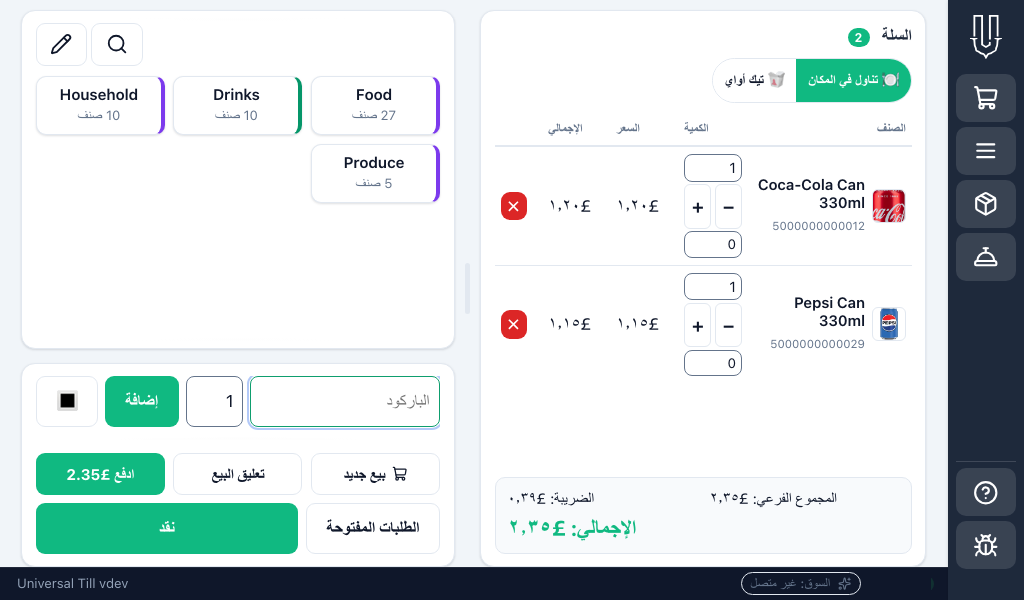
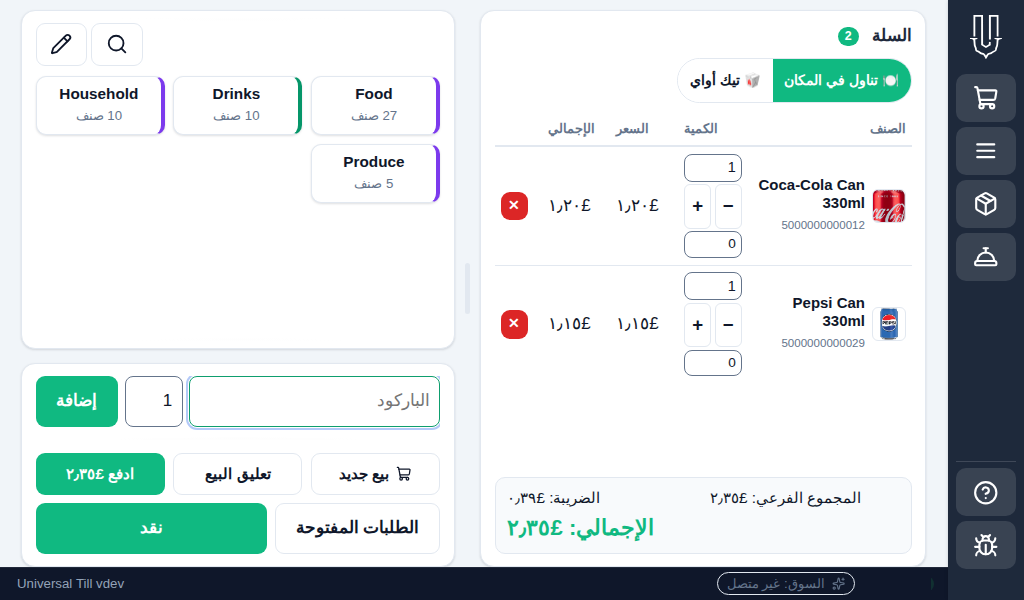
Docs: regenerate fa/ar sell screenshots for the Pay-button digit fix (ut-docs#2649)
The manual's fa and ar sell.png showed the bug itself: htmx load swaps
inside #basket fire the Pay-button refresh, which wrote Latin digits.
Regenerated with `make docs-shots`. Only the two affected screenshots and
the manifest are committed; the other regenerated PNGs differ only by
container font/camera-detection rendering.

Claude-Session: https://claude.ai/code/session_01K1P1UVtWR8KbQwi6NyrT9N

diff --git a/docs/code-reviews/2026-09-25-fa-pay-button-digits-2649.md b/docs/code-reviews/2026-09-25-fa-pay-button-digits-2649.md
@@ -45,5 +45,16 @@ kiosk-engine isolation.
   visually:** ar (covered by the e2e spec only), suffix currencies (IRT/IRR),
   very long totals.
 
+## CI follow-up
+The first CI run failed `guard-docs-shots` because `web/ui/**` changed. This
+was not a no-op: htmx `load` swaps inside `#basket` (suggest-strip,
+table-picker) fire the Pay-button refresh, so the manual's fa and ar
+`sell.png` screenshots showed the bug itself (`پرداخت 2.35£`). I ran
+`make docs-shots` and committed the manifest plus `web/help/img/{fa,ar}/sell.png`,
+which now read `پرداخت ۲٫۳۵£` / `ادفع ٢٫٣٥£` (looked at both). I left out the
+other 118 regenerated PNGs because they differ only by this container's font
+rendering and its camera-button detection, not by content; this follows the
+precedent of 0c7db02, which also committed only the affected topic's PNGs.
+
 ## Verdict
 Safe to merge.
